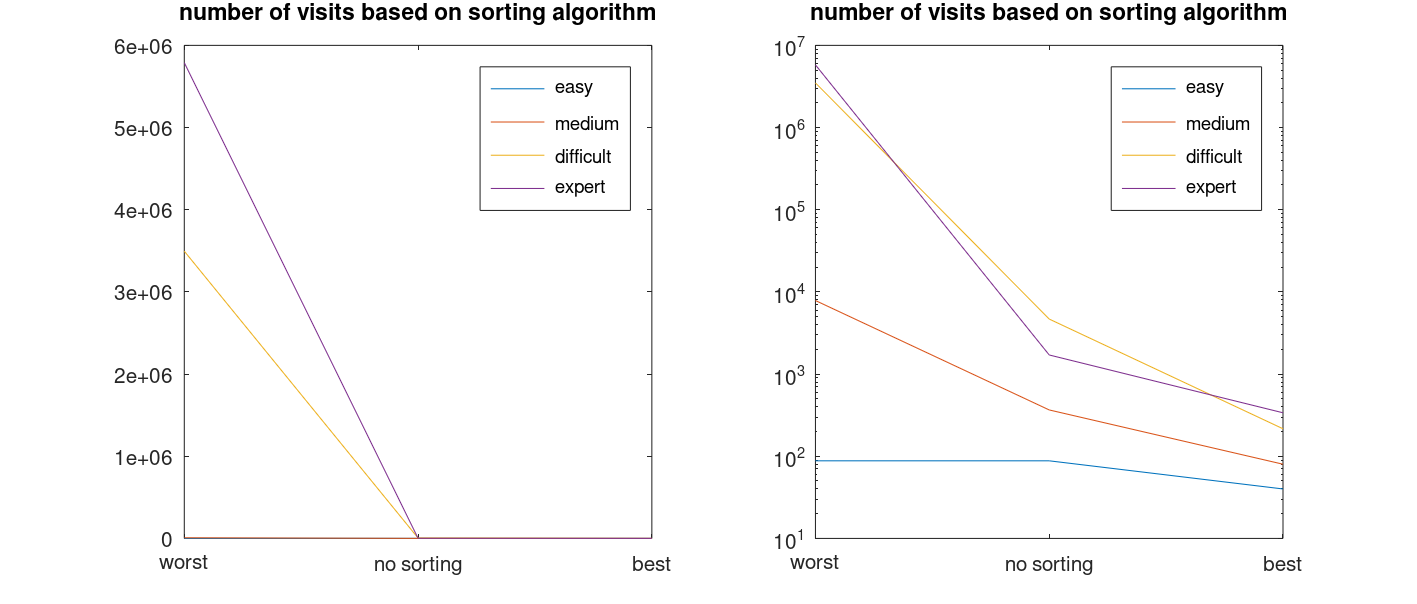
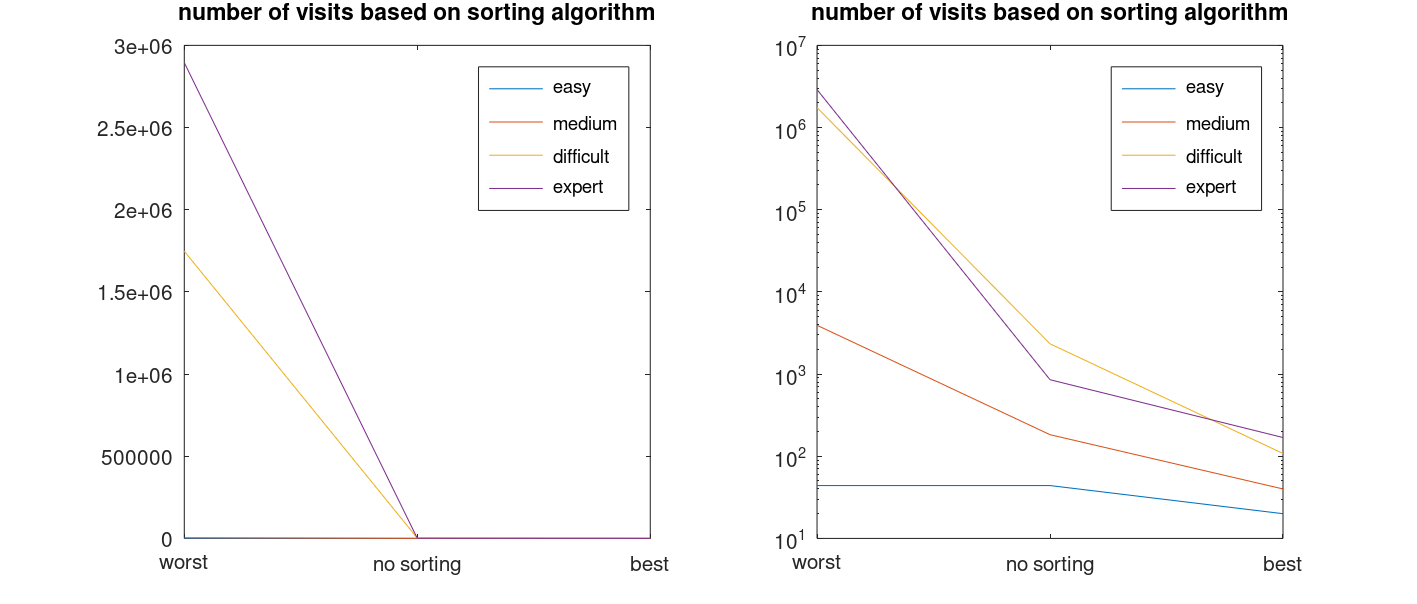
Clarified some text, also updated number of visits as tested variables was counted twice (apply and undo)

diff --git a/YTACM-EYE/app/optimization_analysis.m b/YTACM-EYE/app/optimization_analysis.m
@@ -2,10 +2,10 @@
 
 #nCombinations
 # worst, bruteforce, best
-expert=[5789328 1708 338]
-difficult=[3495390 4672 216]
-medium=[7850 366 80]
-easy=[88 88 40]
+expert=[5789328 1708 338]./2
+difficult=[3495390 4672 216]./2
+medium=[7850 366 80]./2
+easy=[88 88 40]./2
 
 subplot(1,2,1)
 plot([easy;medium;difficult;expert]');

diff --git a/README.md b/README.md
@@ -117,10 +117,10 @@ variables_with_pos=
 ```
 
 # Brain
-The brain is used to solve the puzzle, 
+The brain🧠 is used to solve the puzzle🧩 
 
 - Step1, load data
-- Step2, detect equations in the matrix (they are just numbers)
+- Step2, detect equations in the matrix (they are just saved as numbers with coordinates and needs to be mapped according to adjacency)
 - Step3, Map variables in equations to coordinate system
 - Set variables and test for validity, **select equations according to lowest level of freedom to limit test space**
 
@@ -128,10 +128,10 @@ The brain is used to solve the puzzle,
 Selecting according to the lowest level of freedom has a huge effect, the following table shows how the number of visited nodes increased exponentially.
 | **Category** | **worst** | **no sorting** | **optimized** |
 |--------------|-----------|----------------|---------------|
-| **expert**   | 5789328   | 1708           | 338           |
-| **difficult**| 3495390   | 4672           | 216           |
-| **medium**   | 7850      | 366            | 80            |
-| **easy**     | 88        | 88             | 40            |
+| **expert**   | 2894664   | 854            | 169           |
+| **difficult**| 1747695   | 2336           | 108           |
+| **medium**   | 3925      | 183            | 40            |
+| **easy**     | 44        | 44             | 20            |
 
 ![Sorting effect](./YTACM-EYE/doc/sorting_effect.png)
 
